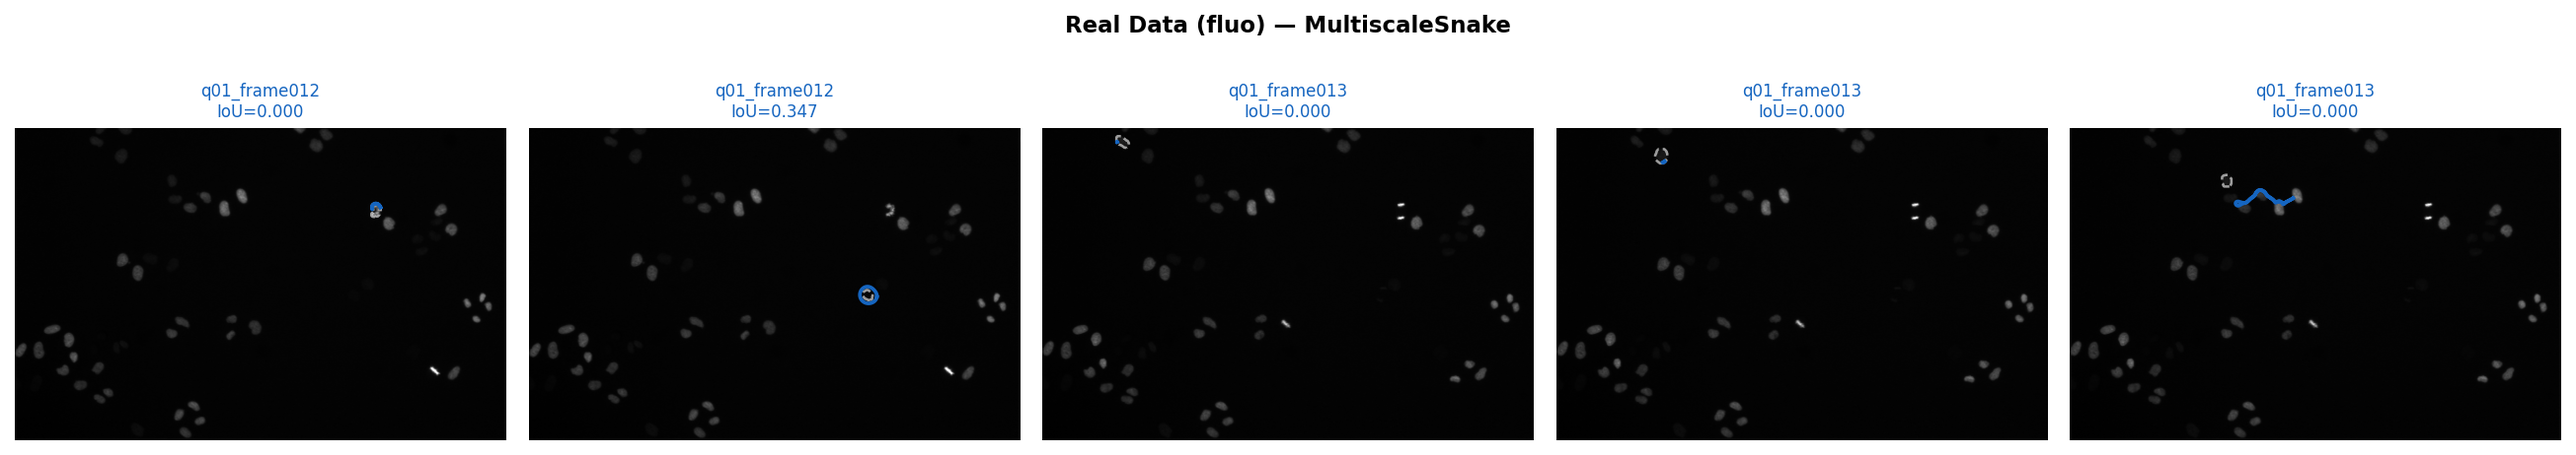
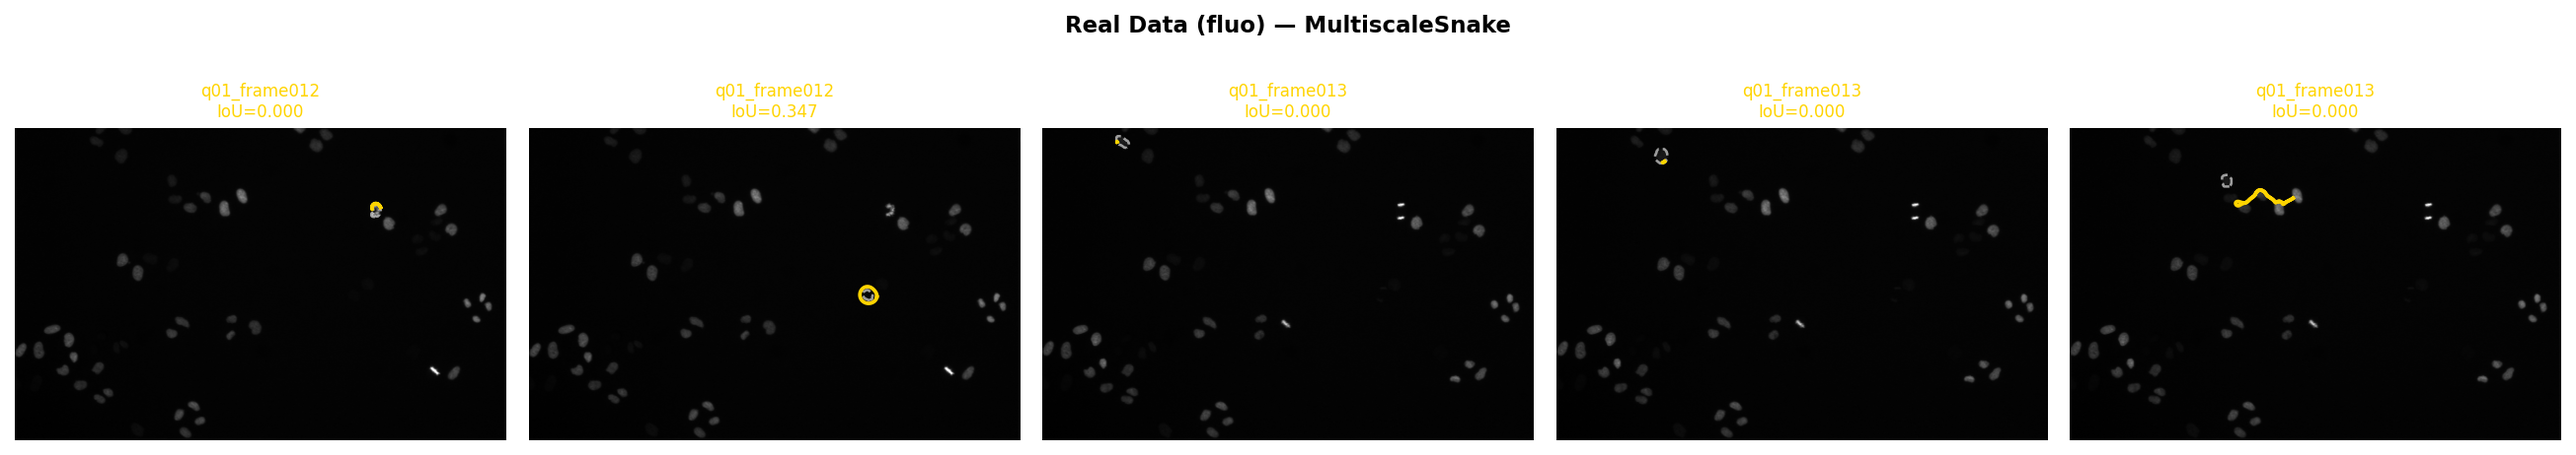
Add multiscale ultrasound results

diff --git a/experiments/multiscale_results.py b/experiments/multiscale_results.py
@@ -119,6 +119,40 @@ def load_fluo_hela(n_images=20):
     return samples
 
 
+def load_ultrasound(n_images=20):
+    """Load up to n_images nerve samples from Ultrasound Nerve Segmentation dataset."""
+    base = os.path.join(_ROOT, "data", "ultrasound-nerve-segmentation", "train")
+    if not os.path.isdir(base):
+        raise FileNotFoundError(f"Ultrasound data not found: {base}")
+    files = sorted(f for f in os.listdir(base) if f.endswith(".tif") and "_mask" not in f)
+    samples = []
+    for fname in files:
+        mask_path = os.path.join(base, fname.replace(".tif", "_mask.tif"))
+        if not os.path.exists(mask_path):
+            continue
+        mask_raw = tifffile.imread(mask_path)
+        if mask_raw.max() == 0:
+            continue
+        img_raw = tifffile.imread(os.path.join(base, fname)).astype(np.float32)
+        img_norm = (img_raw - img_raw.min()) / (img_raw.max() - img_raw.min() + 1e-8)
+        cell_mask = mask_raw > 0
+        contours = find_contours(cell_mask.astype(float), 0.5)
+        if not contours:
+            continue
+        samples.append({
+            "image": img_norm,
+            "mask": cell_mask,
+            "gt_contour": max(contours, key=len),
+            "name": fname.replace(".tif", ""),
+        })
+        if len(samples) >= n_images:
+            break
+    if not samples:
+        raise FileNotFoundError(f"No valid ultrasound samples with non-empty masks in {base}")
+    print(f"  Loaded {len(samples)} ultrasound samples")
+    return samples
+
+
 def build_multiscale(n_iter):
     return MultiscaleSnake(
         alpha=0.015,
@@ -310,6 +344,14 @@ def main():
         fluo_samples = load_fluo_hela(n_images=args.n_real)
         vis_samples, fluo_results = run_real(fluo_samples, "fluo", n_iters=REAL_N_ITERS)
         plot_real(vis_samples, fluo_results, "fluo", args.out_dir, REAL_N_ITERS)
+
+        try:
+            print(f"\n=== Real data: Ultrasound (n={args.n_real}, {REAL_N_ITERS} iters) ===")
+            us_samples = load_ultrasound(n_images=args.n_real)
+            vis_samples, us_results = run_real(us_samples, "ultrasound", n_iters=REAL_N_ITERS)
+            plot_real(vis_samples, us_results, "ultrasound", args.out_dir, REAL_N_ITERS)
+        except FileNotFoundError as e:
+            print(f"  Skipping ultrasound: {e}")
 
 
 if __name__ == "__main__":
